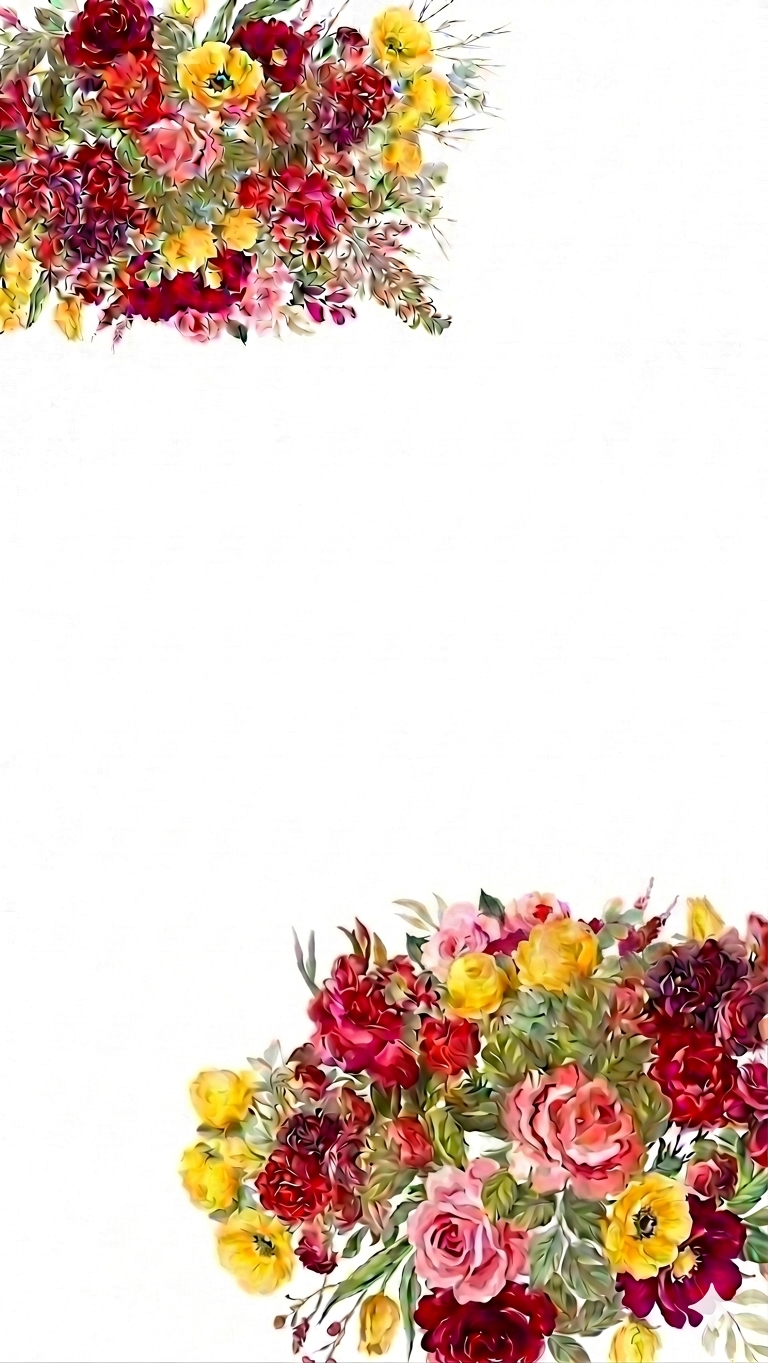
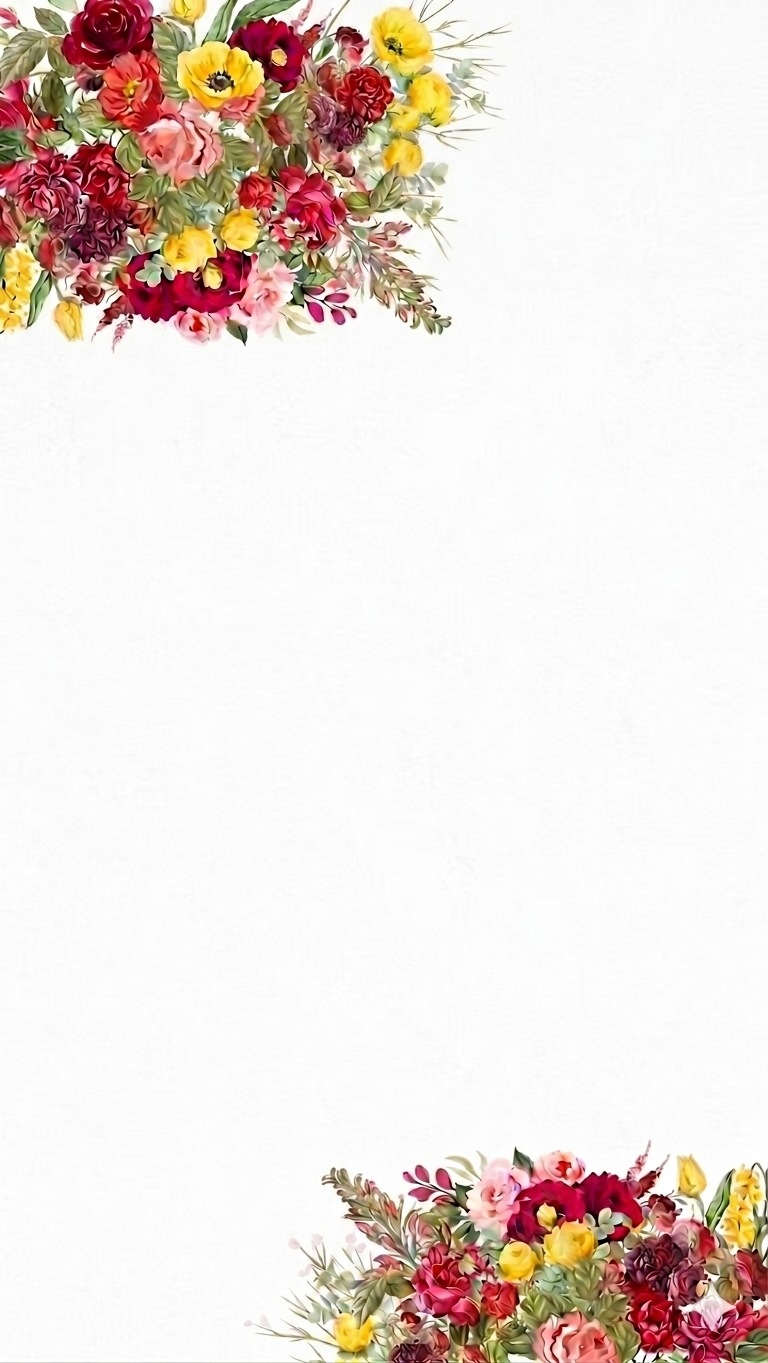
first commit

Changed region(s): [[0.2188, 0.6471, 1.0, 1.0], [0.0, 0.0, 0.625, 0.2465]]

diff --git a/index.html b/index.html
@@ -265,6 +265,7 @@
             border: none;
             margin-top: 20px;
             cursor: pointer;
+            text-decoration: none;
         }
 
         /* ==========================================================================
@@ -404,7 +405,6 @@
     .circulo-play { width:45px!important; height:45px!important; } 
     .texto-play { font-size:1.3rem!important; display: block !important; } 
     
-    .nombres { font-size:2.8rem!important; line-height:1.1!important; margin-bottom:15px!important; } 
     .fecha { font-size:1.1rem!important; margin-bottom:20px!important; } 
     
     .foto-boda { width:75%!important; max-width:260px!important; height:auto!important; border:6px solid white!important; box-shadow:0 5px 15px rgba(0,0,0,.15)!important; margin:10px auto 25px auto!important; } 
@@ -443,12 +443,14 @@
     font-weight: bold !important;
 }
 /* 1. Estilo de letra para los novios */
-    .nombres, .nombres-final {
-        font-family: 'Dancing Script', cursive !important; /* Asegúrate de tener esta fuente importada */
-        font-size: 3rem !important; 
+   /* 1. Estilo de letra para los novios (Inicio y Final) */
+    .nombres, .nombres-final, .nombres-cierre {
+        font-family: 'Dancing Script', cursive !important; 
+        font-size: 2rem !important; 
         line-height: 1.2 !important;
-        margin-bottom: 10px !important;
-        color: #555 !important; /* Ajusta este color al gris de la foto */
+        margin-bottom: 15px !important;
+        color: #555 !important; 
+        text-align: center !important;
     }
 /* ==============================
    TARJETAS DE PADRES Y PADRINOS